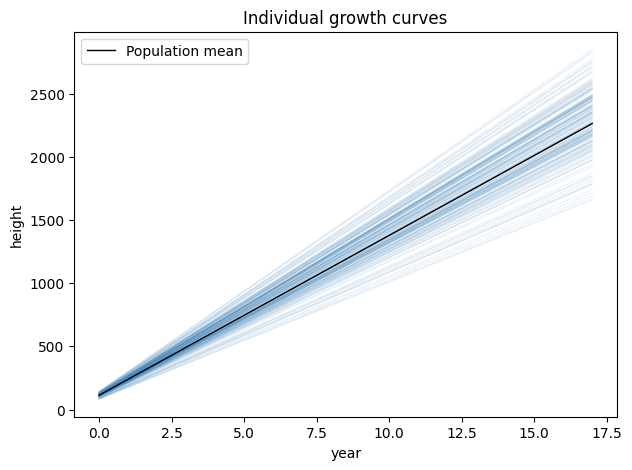
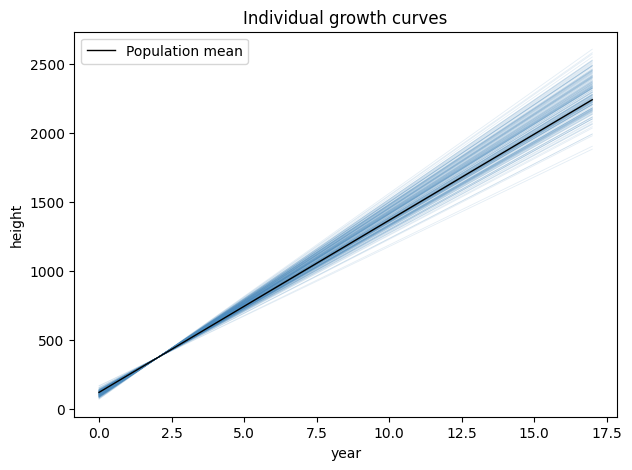
fix the random regression section: add permanent environment

diff --git a/tests/reference/doc.py b/tests/reference/doc.py
@@ -156,15 +156,22 @@ mod = MixedModel.from_dataframe(
     data     = df,
     response = "height",
     fixed    = "1 + year",
-    random   = Random(
-        unit         = "ID",
-        formula      = "1 + year",
-        left_hand    = "full",
-        right_hand   = "str",
-        covariance   = K,
-        matrix_index = ped["id"].tolist(),
-        jitter       = 1e-6,
-    ),
+    random   = [
+        Random(
+            unit         = "ID",
+            formula      = "1 + year",
+            left_hand    = "full",
+            right_hand   = "str",
+            covariance   = K,
+            matrix_index = ped["id"].tolist(),
+        ),
+        Random(
+            unit         = "ID",
+            formula      = "1 + year",
+            left_hand    = "full",
+            right_hand   = "iid",
+        ),
+    ],
     residual = Residual(
         left_hand = "iid",
         right_hand = "het",